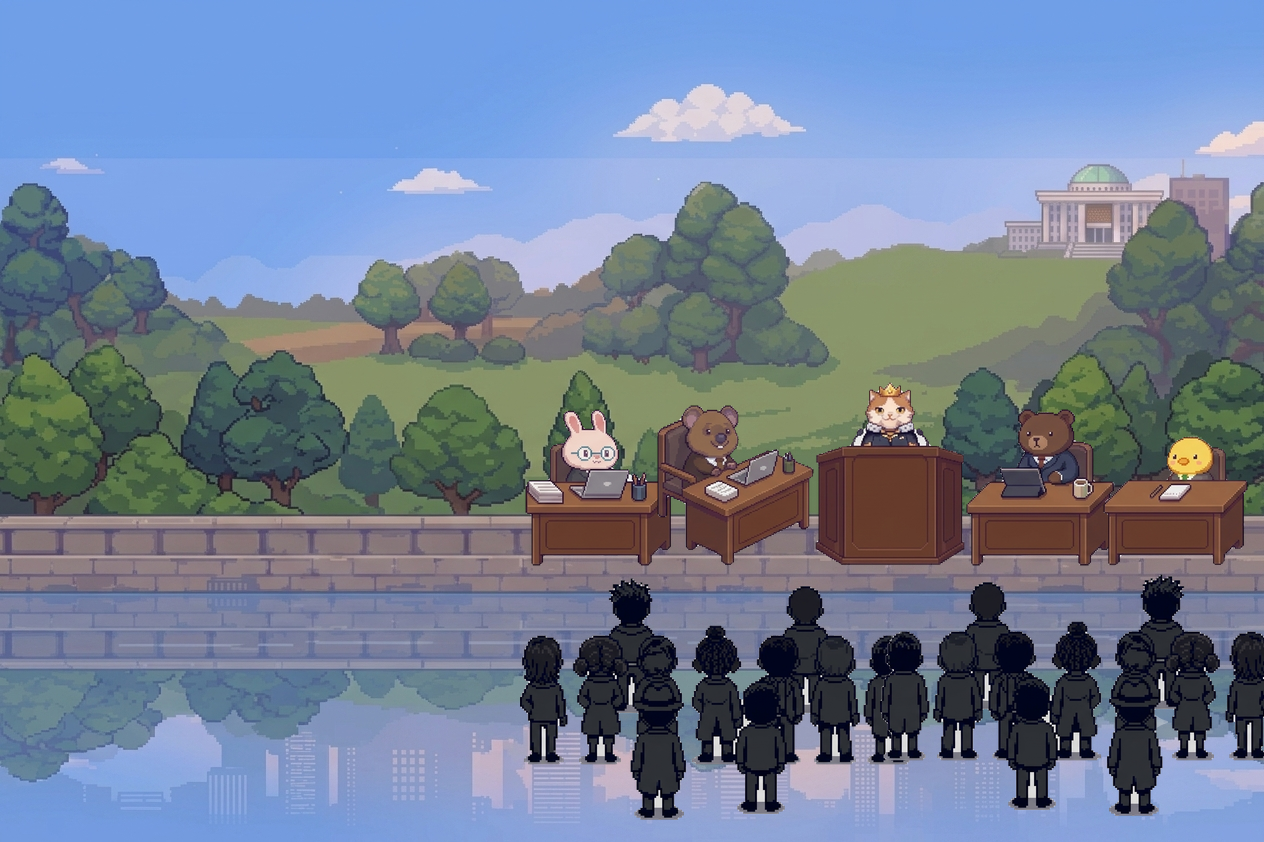
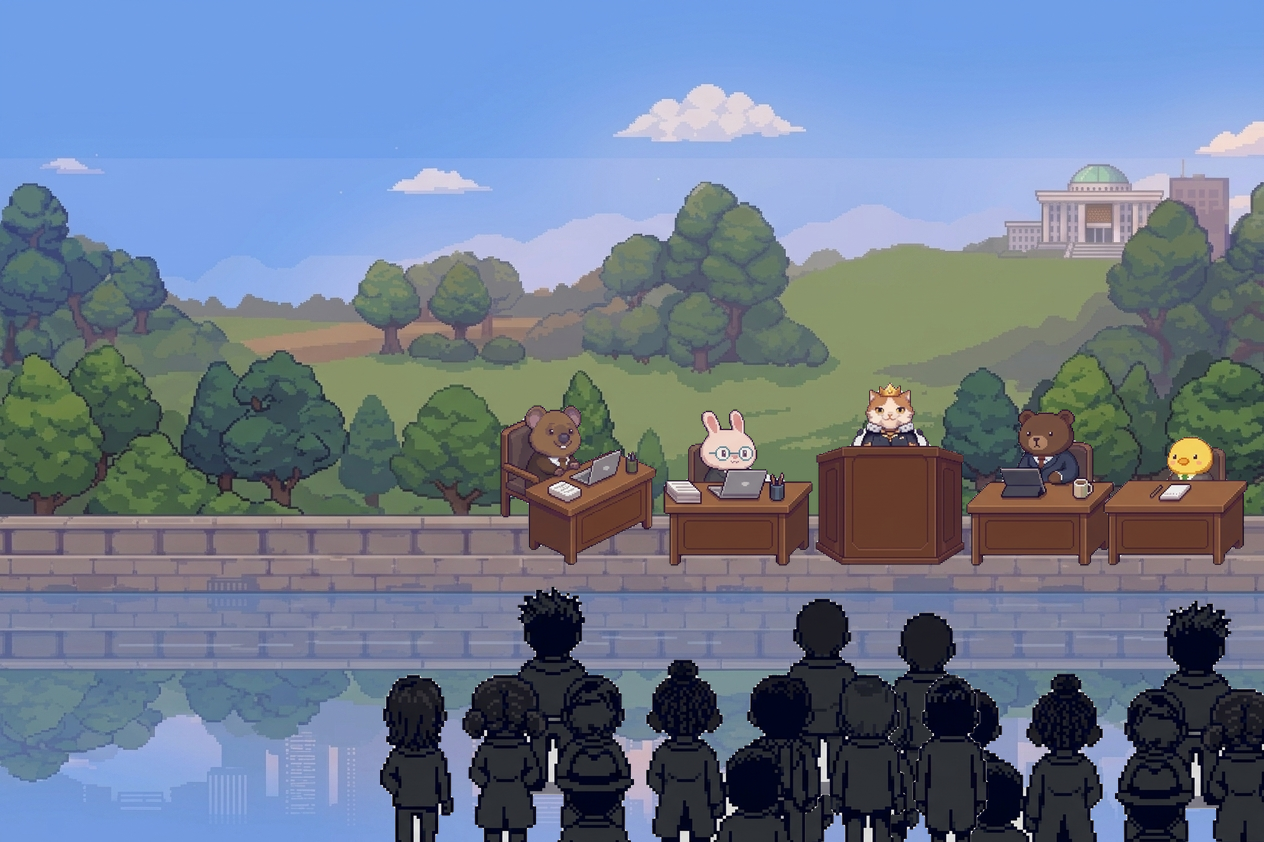
Show whole scene on desktop, reorder ministers (quokka, rabbit, cat, bear, chick), larger audience
Claude-Session: https://claude.ai/code/session_01FK4EKsW2CMv45MdP3uXWoP

Changed region(s): [[0.2777, 0.4632, 1.0, 1.0]]

diff --git a/index.html b/index.html
@@ -99,8 +99,8 @@
       pointer-events: none;
     }
     @media (min-width: 1001px) {
-      .hero::before { content: ""; position: absolute; inset: 0; z-index: 1; pointer-events: none;
-        background: linear-gradient(90deg, rgba(18, 28, 56, .88) 0%, rgba(18, 28, 56, .78) 28%, rgba(18, 28, 56, .35) 40%, rgba(18, 28, 56, 0) 46%); }
+      .hero { background: linear-gradient(90deg, #17223f 0%, #22345c 45%, #2c4a6e 100%); }
+      .hero::after { display: none; }
     }
     .hero-copy { position: relative; z-index: 2; }
     .hero-copy { max-width: 640px; }
@@ -969,10 +969,10 @@
 
     // 배경 이미지(1264x842) 위에 말풍선·이름표를 같은 자리에 덮어 그린다. (이미지 속 말풍선 글자 오타 대체)
     const SCENE_W = 1264, SCENE_H = 842;
-    const VIEW_TOP = 297, VIEW_ROWS = 335, CENTER_Y = 465; // 캐릭터 구간(말풍선~이름표)이 이 범위
+    const VIEW_TOP = 225, VIEW_ROWS = 520; // 화면에 보여 줄 그림 구간(나무~관객, 전체 장면)
     const SCENE_ITEMS = [
-      { x: 548,  y: 352, w: 112, h: 52, text: "신중하게 검토해야 합니다!", chip: [604, 545, "신중주의"] },
-      { x: 678,  y: 360, w: 122, h: 42, text: "재미도 중요합니다!",         chip: [735, 548, "낭만주의"] },
+      { x: 518,  y: 360, w: 122, h: 42, text: "재미도 중요합니다!",         chip: [578, 548, "낭만주의"] },
+      { x: 682,  y: 352, w: 112, h: 52, text: "신중하게 검토해야 합니다!", chip: [738, 545, "신중주의"] },
       { x: 806,  y: 318, w: 168, h: 50, text: "지금부터 국무회의를 시작하겠습니다!", chip: [890, 524, "국무총리"] },
       { x: 980,  y: 362, w: 118, h: 40, text: "예산도 따져 봅시다!",         chip: [1040, 545, "현실주의"] },
       { x: 1126, y: 392, w: 98,  h: 38, text: "일단 해봅시다!",             chip: [1175, 542, "행동파"] }
@@ -984,21 +984,30 @@
       const narrow = window.matchMedia("(max-width: 1000px)").matches;
       const phone = window.matchMedia("(max-width: 600px)").matches;
       const w = box.clientWidth;
-      // 태블릿·폰: 캐릭터 구간만 보이도록 높이를 계산. 데스크톱: 히어로 전체가 배경이며 캐릭터 구간을 가운데로 맞춤
-      const base = phone ? w / (SCENE_W * 0.62) : w / SCENE_W;
-      box.style.height = narrow ? Math.round(VIEW_ROWS * base) + "px" : "";
       const hero = box.parentElement;
-      hero.style.minHeight = narrow ? "" : Math.round(VIEW_ROWS * base) + "px";
-      const h = box.clientHeight;
-      const scale = phone ? Math.max(base, h / SCENE_H) : Math.max(w / SCENE_W, h / SCENE_H);
+      let scale, offsetX, yTop = VIEW_TOP;
+      if (narrow) {
+        // 태블릿·폰: 너비에 맞춰 그림 구간을 통째로 보여 준다(폰은 오른쪽 62%만)
+        const base = phone ? w / (SCENE_W * 0.62) : w / SCENE_W;
+        box.style.height = Math.round(VIEW_ROWS * base) + "px";
+        hero.style.minHeight = "";
+        scale = base;
+        offsetX = Math.max(0, SCENE_W * scale - w) * (phone ? 1 : 0.5);
+      } else {
+        // 데스크톱: 히어로 높이에 장면 전체(VIEW_ROWS)가 들어오게 맞추고 오른쪽에 붙인다. 왼쪽은 글자 영역(그림이 서서히 나타남)
+        box.style.height = "";
+        hero.style.minHeight = "";
+        const h = box.clientHeight;
+        scale = h / VIEW_ROWS;
+        const imgW0 = SCENE_W * scale;
+        offsetX = imgW0 >= w ? (imgW0 - w) / 2 : imgW0 - w; // 그림이 더 좁으면 음수(오른쪽 정렬)
+      }
       const imgW = SCENE_W * scale, imgH = SCENE_H * scale;
-      const offsetX = Math.max(0, imgW - w) * (phone ? 1 : 0.5);
-      const rows = h / scale;                         // 화면에 보이는 그림 행 수
-      const yTop = narrow ? VIEW_TOP : Math.max(0, Math.min(SCENE_H - rows, CENTER_Y - rows / 2));
       img.style.width = imgW + "px"; img.style.height = imgH + "px";
       img.style.left = (-offsetX) + "px"; img.style.top = (-yTop * scale) + "px";
+      img.style.webkitMaskImage = img.style.maskImage = narrow ? "none" : "linear-gradient(90deg, transparent 0, #000 22%)";
       box.querySelectorAll(".sbubble, .schip").forEach(el => el.remove());
-      const fs = Math.max(phone ? 7 : 8, Math.round(9.5 * scale));
+      const fs = Math.max(phone ? 7 : 11, Math.round(12.5 * scale));
       SCENE_ITEMS.forEach(item => {
         const bub = document.createElement("div");
         bub.className = "sbubble";
@@ -1009,7 +1018,7 @@
         const [cx, cy, name] = item.chip;
         const c = document.createElement("div");
         c.className = "schip";
-        c.style.cssText = `left:${cx * scale - offsetX}px;top:${(cy - yTop) * scale}px;font-size:${Math.max(phone ? 7 : 8, Math.round(8.5 * scale))}px`;
+        c.style.cssText = `left:${cx * scale - offsetX}px;top:${(cy - yTop) * scale}px;font-size:${Math.max(phone ? 7 : 10, Math.round(10 * scale))}px`;
         c.textContent = name;
         box.appendChild(c);
       });
